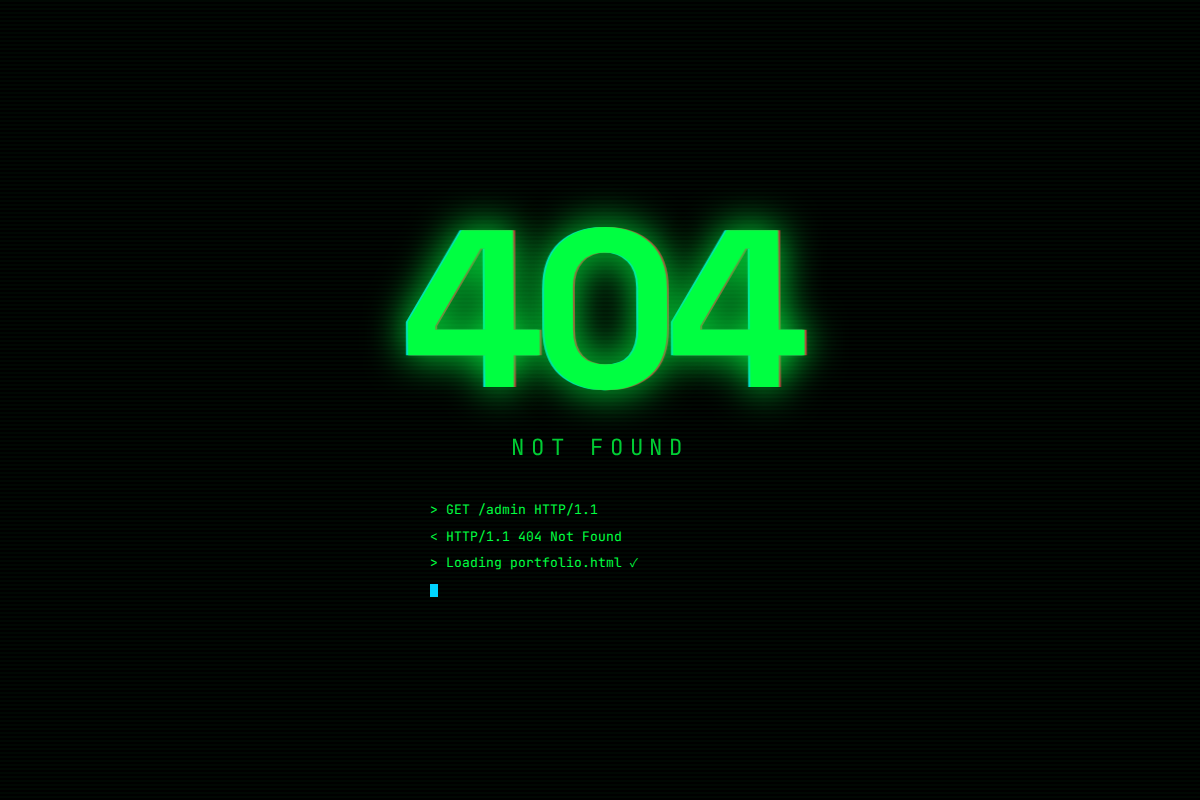
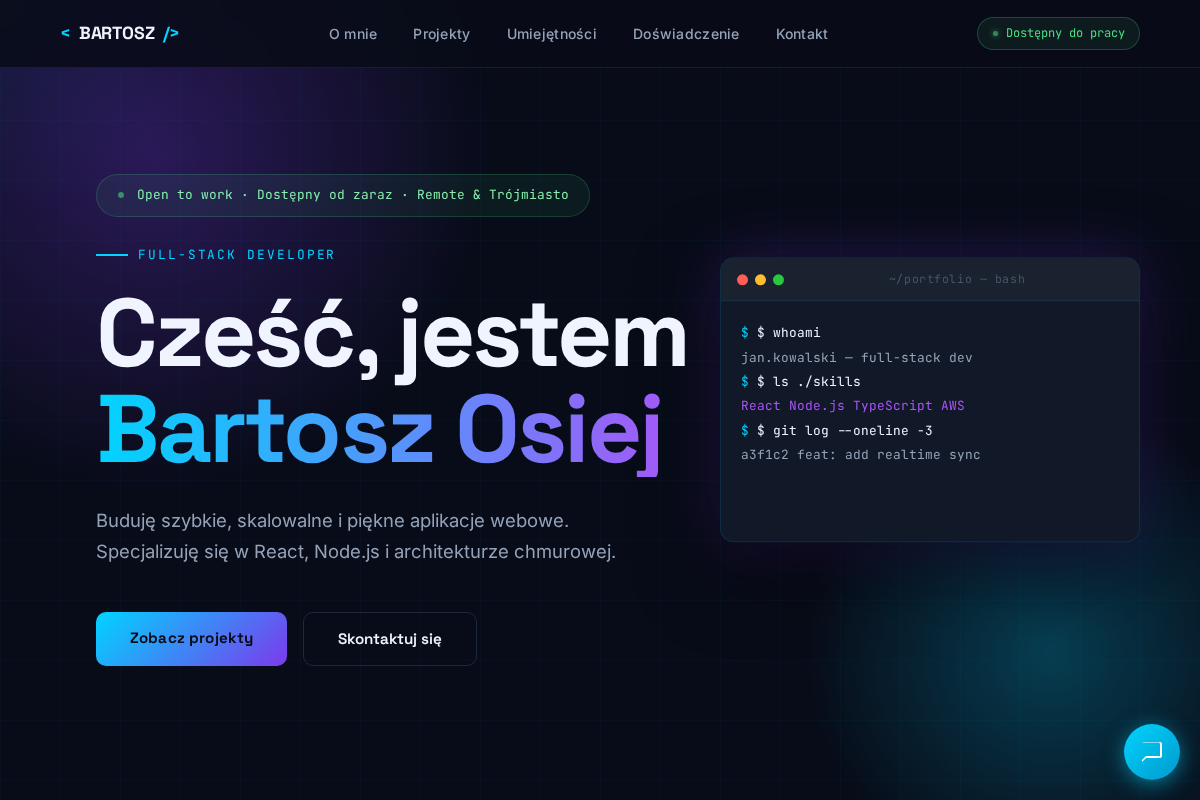
docs: update portfolio screenshot with delay

diff --git a/portfolio_shot.js b/portfolio_shot.js
@@ -1,0 +1,10 @@
+const { chromium } = require('playwright');
+(async () => {
+  const browser = await chromium.launch();
+  const page = await browser.newPage();
+  await page.setViewportSize({ width: 1200, height: 800 });
+  await page.goto('https://voicenotesite.github.io/WebBartosz/', { waitUntil: 'load' });
+  await page.waitForTimeout(5000);
+  await page.screenshot({ path: 'screenshots/portfolio.png' });
+  await browser.close();
+})();
